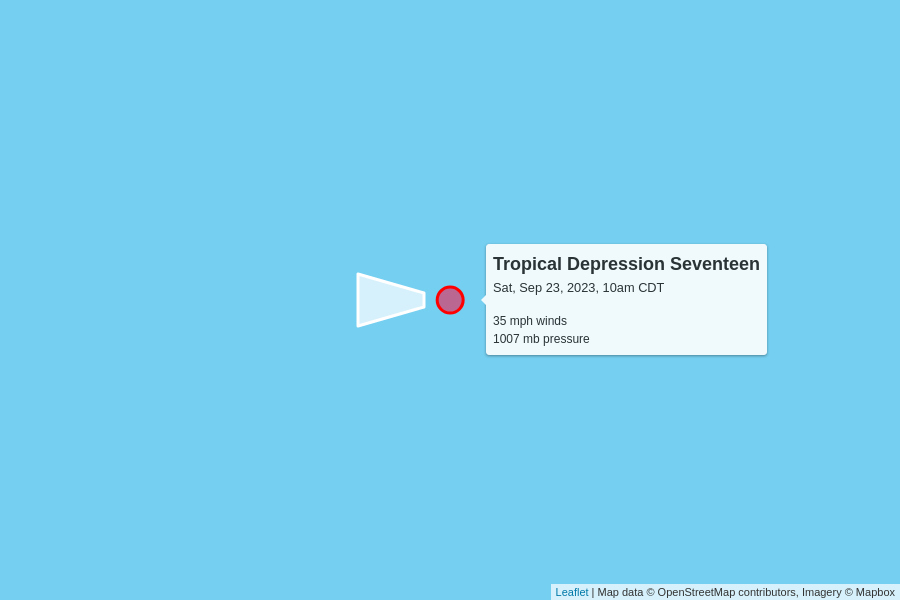
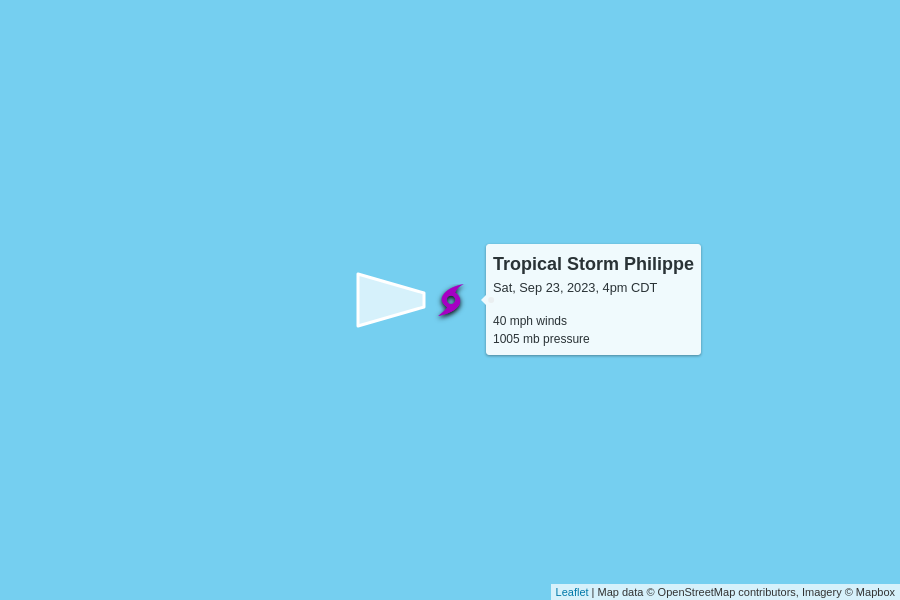
automatic update

Changed region(s): [[0.6222, 0.39, 0.8711, 0.6], [0.4667, 0.48, 0.56, 0.54]]

diff --git a/docs/index.html b/docs/index.html
@@ -104,7 +104,7 @@
         <td colspan="6" class="storm category-0" >
           <h2>
             Tropical Storm Ophelia
-            <p class="updated">last updated <span data-time>2023-09-23T18:00:00.000Z</span></p>
+            <p class="updated">last updated <span data-time>2023-09-23T21:00:00.000Z</span></p>
           </h2>
         </td>
       </tr>
@@ -119,12 +119,12 @@
       </tr>
       <tr>
         <td class="spacer"></td>
-        <td>45 mph<br>-5 mph since last update</td>
-        <td>993 mb<br>+3 mb since last update</td>
+        <td>40 mph<br>-5 mph since last update</td>
+        <td>997 mb<br>+4 mb since last update</td>
         <td>
-          13 mph to the north
+          12 mph to the north
           <br/>
-          <span style="display: inline-block; font-size: 1.5em; transform: rotate(355deg);">↑</span>
+          <span style="display: inline-block; font-size: 1.5em; transform: rotate(360deg);">↑</span>
         </td>
         <td><a href="https://raw.githubusercontent.com/mgwalker/atlantic-hurricanes/main/data/csv/AL162023.csv">AL162023.csv</a></td>
         <td><a href="https://www.nhc.noaa.gov/archive/2023/OPHELIA.shtml?">NHC advisories</a></td>
@@ -147,8 +147,8 @@
       <tr>
         <td colspan="6" class="storm category-0" >
           <h2>
-            Tropical Depression Seventeen
-            <p class="updated">last updated <span data-time>2023-09-23T15:00:00.000Z</span></p>
+            Tropical Storm Philippe
+            <p class="updated">last updated <span data-time>2023-09-23T21:00:00.000Z</span></p>
           </h2>
         </td>
       </tr>
@@ -163,15 +163,15 @@
       </tr>
       <tr>
         <td class="spacer"></td>
-        <td>35 mph</td>
-        <td>1007 mb</td>
+        <td>40 mph<br>+5 mph since last update</td>
+        <td>1005 mb<br>-2 mb since last update</td>
         <td>
-          15 mph to the west
+          14 mph to the west
           <br/>
           <span style="display: inline-block; font-size: 1.5em; transform: rotate(270deg);">↑</span>
         </td>
         <td><a href="https://raw.githubusercontent.com/mgwalker/atlantic-hurricanes/main/data/csv/AL172023.csv">AL172023.csv</a></td>
-        <td><a href="https://www.nhc.noaa.gov/archive/2023/SEVENTEEN.shtml?">NHC advisories</a></td>
+        <td><a href="https://www.nhc.noaa.gov/archive/2023/PHILIPPE.shtml?">NHC advisories</a></td>
       </tr>
       <tr id="storm_AL172023" >
         <td class="spacer">
